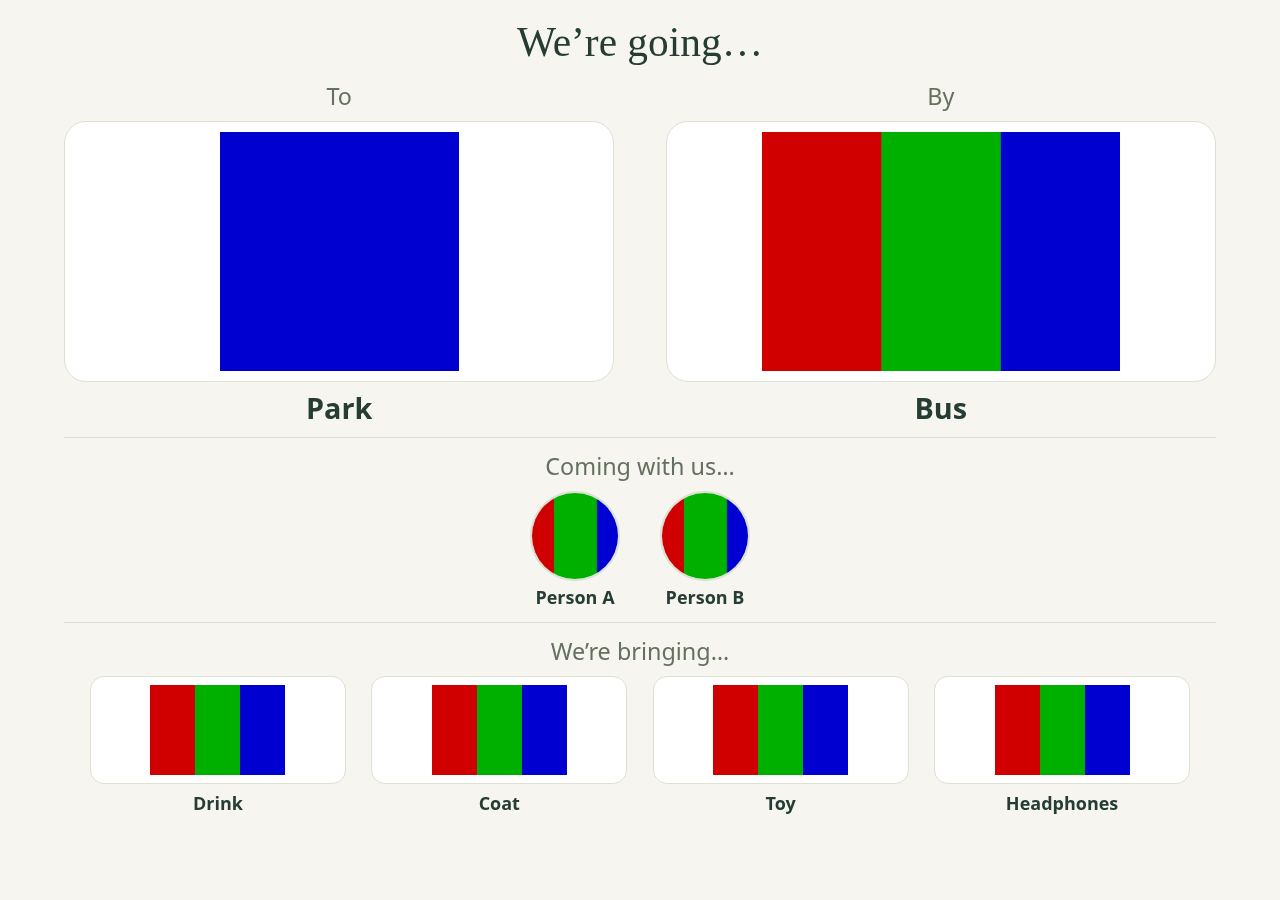
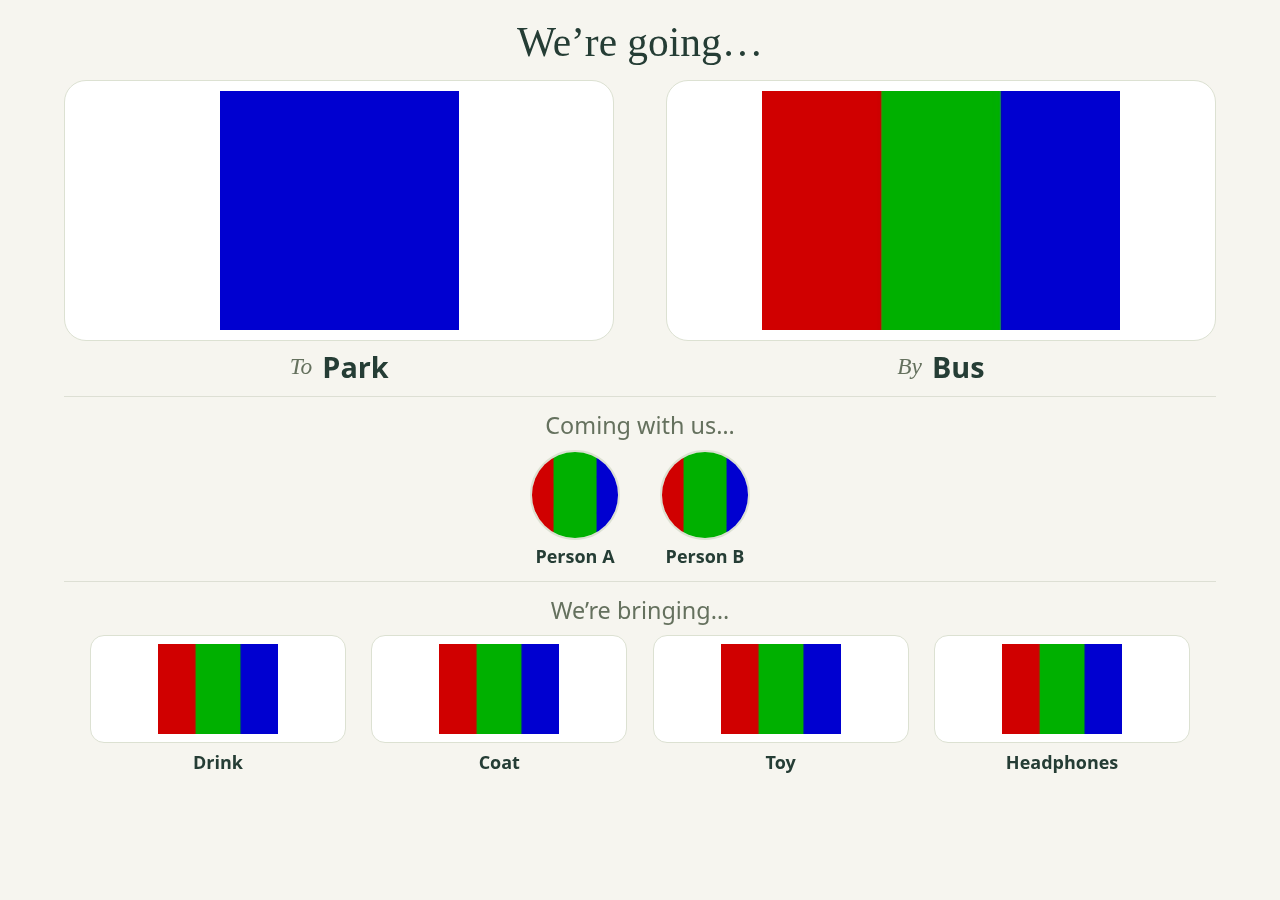
Place To and By beside journey names in v1.0.4

diff --git a/transition_cues/transition-cues-web/app.js b/transition_cues/transition-cues-web/app.js
@@ -84,7 +84,7 @@ function renderLocked() {
   document.body.classList.add('lock-active');
   const items = locked.items || [];
   const people = locked.people || [];
-  app.innerHTML = `<main class="locked ${items.length?'has-items':''} ${people.length?'has-people':''}" id="lockedSurface" aria-label="Journey picture display"><h1>We’re going…</h1><div class="cue-pair">${['places','transport'].map((kind,i)=>`<figure class="cue-card"><p class="cue-label">${i===0?'To':'By'}</p><img src="${esc(locked[kind].image)}" alt="${esc(locked[kind].name)}" draggable="false"><figcaption>${esc(locked[kind].name)}</figcaption></figure>`).join('')}</div>${people.length ? `<section class="journey-people" aria-labelledby="peopleHeading"><h2 id="peopleHeading">Coming with us…</h2><div class="people-row">${people.map(person=>`<figure class="person-card"><img src="${esc(person.image)}" alt="${esc(person.name)}" draggable="false"><figcaption>${esc(person.name)}</figcaption></figure>`).join('')}</div></section>` : ''}${items.length ? `<section class="bring-items" aria-labelledby="bringHeading"><h2 id="bringHeading">We’re bringing…</h2><div class="bring-grid">${items.map(item=>`<figure class="bring-card"><img src="${esc(item.image)}" alt="${esc(item.name)}" draggable="false"><figcaption>${esc(item.name)}</figcaption></figure>`).join('')}</div></section>` : ''}</main>`;
+  app.innerHTML = `<main class="locked ${items.length?'has-items':''} ${people.length?'has-people':''}" id="lockedSurface" aria-label="Journey picture display"><h1>We’re going…</h1><div class="cue-pair">${['places','transport'].map((kind,i)=>`<figure class="cue-card"><img src="${esc(locked[kind].image)}" alt="${esc(locked[kind].name)}" draggable="false"><figcaption><span class="cue-label">${i===0?'To':'By'}</span><span class="cue-name">${esc(locked[kind].name)}</span></figcaption></figure>`).join('')}</div>${people.length ? `<section class="journey-people" aria-labelledby="peopleHeading"><h2 id="peopleHeading">Coming with us…</h2><div class="people-row">${people.map(person=>`<figure class="person-card"><img src="${esc(person.image)}" alt="${esc(person.name)}" draggable="false"><figcaption>${esc(person.name)}</figcaption></figure>`).join('')}</div></section>` : ''}${items.length ? `<section class="bring-items" aria-labelledby="bringHeading"><h2 id="bringHeading">We’re bringing…</h2><div class="bring-grid">${items.map(item=>`<figure class="bring-card"><img src="${esc(item.image)}" alt="${esc(item.name)}" draggable="false"><figcaption>${esc(item.name)}</figcaption></figure>`).join('')}</div></section>` : ''}</main>`;
   $('#lockedSurface').addEventListener('contextmenu', e=>e.preventDefault());
   $('#lockedSurface').onclick = () => {
     const now = Date.now(); taps = taps.filter(t=>now-t<4000); taps.push(now);

diff --git a/transition_cues/transition-cues-web/style.css b/transition_cues/transition-cues-web/style.css
@@ -9,3 +9,5 @@
 #pinDialog{max-height:94dvh;overflow-y:auto}.pin-entry{display:block;width:100%;min-height:52px;padding:10px 14px;border:1px solid #cbd1c3;background:#fff;border-radius:10px;color:var(--green);text-align:center}.pin-entry span{font-size:24px;letter-spacing:5px;line-height:30px}.pin-entry.active{border:2px solid var(--green);padding:9px 13px;background:#f1f3eb}.pin-pad-label{font-size:13px!important;color:var(--muted);margin:12px 0 10px!important;text-align:center;line-height:1.4!important}.pin-keypad{display:grid;grid-template-columns:repeat(3,minmax(0,1fr));gap:9px;max-width:340px;margin:0 auto}.pin-keypad button{min-height:52px;padding:10px;background:#e7ebdf;border:1px solid #d3d8c8;border-radius:12px;color:var(--green);font-size:24px;font-weight:600}.pin-keypad button[data-pin-key=clear]{font-size:14px}.pin-keypad button:active{background:#cdd8bf}.pin-next{display:block;margin:12px auto 0;width:100%;max-width:340px;font-size:13px}.pin-keypad button:disabled,.pin-entry:disabled{opacity:.5}@media(max-width:620px){#pinDialog{padding:22px}#pinDialog h2{font-size:28px}#pinDialog .dialog-actions{margin-top:16px}.pin-keypad{gap:8px}.pin-keypad button{min-height:50px;padding:8px}}
 
 #planDialog{width:100%;max-width:none;height:100dvh;max-height:none;margin:0;border:0;border-radius:0;background:#f6f5ef;padding:clamp(24px,6vw,72px);overflow-y:auto}#planDialog[open]{display:flex;align-items:center;justify-content:center}#planForm{width:100%;max-width:560px;margin:auto}#planTitle{font-size:clamp(32px,5vw,48px);line-height:1.15;margin:18px 0}#planHelp{font-size:20px;line-height:1.6;color:var(--muted)}#planForm .remember-choice{display:flex;align-items:center;gap:12px;margin-top:28px;min-height:44px;cursor:pointer}#skipPlanIntro{width:24px;height:24px;min-height:24px;padding:0;flex:none;accent-color:var(--green)}#planForm .dialog-actions{margin-top:28px}
+
+.cue-card figcaption{display:flex;align-items:center;justify-content:center;gap:.35em;max-width:100%}.locked .cue-card .cue-label{margin:0;flex:none;font-family:var(--serif);font-style:italic;font-weight:400;line-height:1.2}.cue-name{min-width:0;overflow-wrap:anywhere}

diff --git a/tests/container_smoke.py b/tests/container_smoke.py
@@ -83,5 +83,5 @@ print('PASS: replacement container preserves library, images and PIN in /data')
 
 if __name__ == '__main__':
     parser = argparse.ArgumentParser()
-    parser.add_argument('--image', default='transition-cues-ha-check:1.0.3')
+    parser.add_argument('--image', default='transition-cues-ha-check:1.0.4')
     run(parser.parse_args().image)

diff --git a/transition_cues/CHANGELOG.md b/transition_cues/CHANGELOG.md
@@ -1,5 +1,9 @@
 # Changelog
 
+## 1.0.4
+
+- Move To and By beside the destination and transport names beneath their photos, using separate italic labels vertically centred against each name.
+
 ## 1.0.3
 
 - Move the lock instructions into a splash screen between Show the plan and the locked journey.
